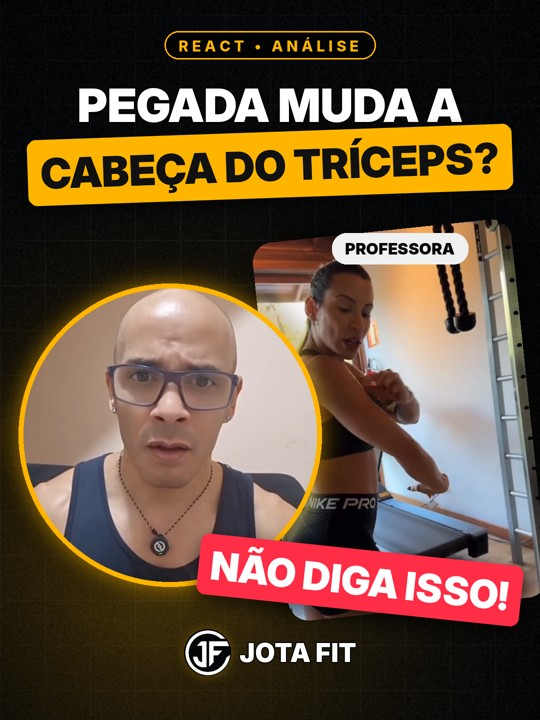
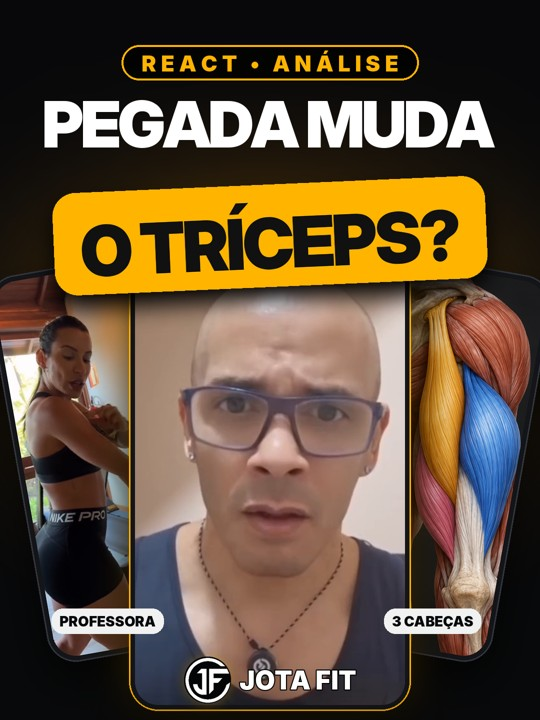
Cover in the new app-tour pattern (fanned cards, tight headline)
Claude-Session: https://claude.ai/code/session_01UuH9TpKCs4xLYma23g83NG

diff --git a/analises/react-triceps/scripts/cover2.py b/analises/react-triceps/scripts/cover2.py
@@ -1,0 +1,88 @@
+import sys
+SRC = "/root/.claude/uploads/c420820b-36e3-51ea-8a35-aafe0a6365f8/69bcbaf7-jotafit.personaltrainer-20261118-0002.mp4"
+OUTP = sys.argv[1]
+sys.argv = ['react.py', SRC, '/dev/null', sys.argv[2], '']
+import react as rc
+from react import *
+import numpy as np, cv2, math
+
+def tight(text, font, fill, track):
+    """render text with tight tracking -> RGBA image"""
+    widths = [font.getlength(ch) for ch in text]
+    w = int(sum(widths) + track * (len(text) - 1) + 40); h = int(font.size * 1.35 + 40)
+    im = Image.new('RGBA', (w, h), (0, 0, 0, 0)); d = ImageDraw.Draw(im); x = 20
+    for ch, cw in zip(text, widths):
+        d.text((x, h / 2), ch, font=font, fill=fill + (255,), anchor='lm'); x += cw + track
+    return im.crop(im.getbbox())
+
+def card(arr, w, h, rot, rad=46, border=(50, 52, 60)):
+    im = Image.fromarray(cv2.cvtColor(arr, cv2.COLOR_BGR2RGB)).convert('RGBA')
+    mk = Image.new('L', (w, h), 0); ImageDraw.Draw(mk).rounded_rectangle((0, 0, w - 1, h - 1), rad, fill=255); im.putalpha(mk)
+    fr = Image.new('RGBA', (w + 24, h + 24), (0, 0, 0, 0))
+    ImageDraw.Draw(fr).rounded_rectangle((0, 0, w + 23, h + 23), rad + 12, fill=(20, 21, 25, 255), outline=border + (255,), width=3)
+    fr.alpha_composite(im, (12, 12))
+    return fr.rotate(rot, resample=Image.BICUBIC, expand=True)
+
+def place(lay, im, cx, cy, shadow=170):
+    sh = Image.new('RGBA', (W, H)); m = im.split()[3]
+    tmp = Image.new('RGBA', im.size, (0, 0, 0, shadow)); tmp.putalpha(m.point(lambda v: v * shadow // 255))
+    sh.alpha_composite(tmp, (int(cx - im.width / 2), int(cy - im.height / 2 + 40)))
+    lay.alpha_composite(sh.filter(ImageFilter.GaussianBlur(40)))
+    lay.alpha_composite(im, (int(cx - im.width / 2), int(cy - im.height / 2)))
+
+# background: near-black + central amber glow
+yy, xx = np.mgrid[0:H, 0:W].astype(np.float32)
+glow = np.clip(1 - np.sqrt(((xx - W / 2) / 900) ** 2 + ((yy - 900) / 700) ** 2), 0, 1) ** 2
+bg = np.zeros((H, W, 3), np.float32) + np.array([10, 9, 8]) + glow[..., None] * np.array([0, 150, 255]) * 0.55
+base = Image.fromarray(np.clip(bg, 0, 255).astype(np.uint8)[..., ::-1]).convert('RGBA')
+lay = Image.new('RGBA', (W, H))
+
+# fan of three cards: her (left), anatomy (right), you (centre, front)
+fh = rc.her_full(26.8)
+left = card(rc.cover(fh, 400, 760, 0.5, 0.3), 400, 760, 10)
+heads = cv2.imread(sys.argv[3] + '/img_heads.png') if False else cv2.imread(rc.ASSETS + '/img_heads.png')
+right = card(rc.cover(heads, 400, 760, 0.42, 0.5), 400, 760, -10)
+place(lay, left, 245, 1150); place(lay, right, 835, 1150)
+fy = rc.RB_face.get(rc.sidx(76.0)); i76 = rc.sidx(76.0); fx = rc.FACE['cx'][i76] / 720
+mid = card(rc.cover(fy[0:740], 540, 940, fx, 0.1), 540, 940, 0, border=(255, 180, 0))
+g = Image.new('RGBA', (W, H)); ImageDraw.Draw(g).rounded_rectangle((250, 640, 830, 1680), 60, fill=(255, 180, 0, 110))
+lay.alpha_composite(g.filter(ImageFilter.GaussianBlur(50)))
+place(lay, mid, W / 2, 1180, 200)
+# small labels on the side cards
+
+# dark fades top/bottom (like the app-tour cover)
+fade = np.zeros((H, W, 4), np.uint8); fade[..., :3] = (8, 8, 10)
+yv = np.arange(H)[:, None]
+al = np.clip(np.maximum((800 - yv) / 520, (yv - 1560) / 380), 0, 1) ** 1.3 * 0.97
+fade[..., 3] = (al * 255).astype(np.uint8)
+lay.alpha_composite(Image.fromarray(fade))
+
+rc.pill(lay, 'PROFESSORA', 215, 1480, F('black', 28), (255, 255, 255, 240), DARK, 1, 16, 9)
+rc.pill(lay, '3 CABEÇAS', 865, 1480, F('black', 28), (255, 255, 255, 240), DARK, 1, 16, 9)
+# tag
+f_tag = F('black', 44); txt = 'REACT • ANÁLISE'; tr = 9
+tw = sum(f_tag.getlength(c) for c in txt) + tr * (len(txt) - 1)
+d = ImageDraw.Draw(lay)
+d.rounded_rectangle((W / 2 - tw / 2 - 40, 330, W / 2 + tw / 2 + 40, 400), 36, fill=(0, 0, 0, 200), outline=YEL + (255,), width=4)
+x = W / 2 - tw / 2
+for c in txt:
+    d.text((x, 367), c, font=f_tag, fill=YEL + (255,), anchor='lm'); x += f_tag.getlength(c) + tr
+
+# headline: white line + yellow tilted box, tight tracking
+l1 = tight('PEGADA MUDA', F('disp', 128), WHITE, -6)
+sh = Image.new('RGBA', (W, H)); sh.alpha_composite(l1, (int(W / 2 - l1.width / 2), 430 + 10))
+lay.alpha_composite(Image.fromarray(np.array(sh)).filter(ImageFilter.GaussianBlur(14)) if False else sh.filter(ImageFilter.GaussianBlur(0)) if False else Image.new('RGBA', (W, H)))
+lay.alpha_composite(l1, (int(W / 2 - l1.width / 2), 440))
+l2 = tight('O TRÍCEPS?', F('disp', 140), (17, 17, 17), -6)
+bw, bh = l2.width + 110, l2.height + 70
+box = Image.new('RGBA', (bw, bh), (0, 0, 0, 0)); ImageDraw.Draw(box).rounded_rectangle((0, 0, bw - 1, bh - 1), 46, fill=YEL + (255,))
+box.alpha_composite(l2, (55, 35))
+box = box.rotate(2.5, resample=Image.BICUBIC, expand=True)
+bsh = Image.new('RGBA', (W, H)); m = box.split()[3]; tmp = Image.new('RGBA', box.size, (0, 0, 0, 255)); tmp.putalpha(m)
+bsh.alpha_composite(tmp, (int(W / 2 - box.width / 2), 590 + 26)); lay.alpha_composite(bsh.filter(ImageFilter.GaussianBlur(22)))
+lay.alpha_composite(box, (int(W / 2 - box.width / 2), 590))
+
+# brand, big with glow
+rc.brand(lay, W / 2, 1600, 1, big=True)
+base.alpha_composite(lay)
+base.convert('RGB').save(OUTP, quality=95); print('ok')
